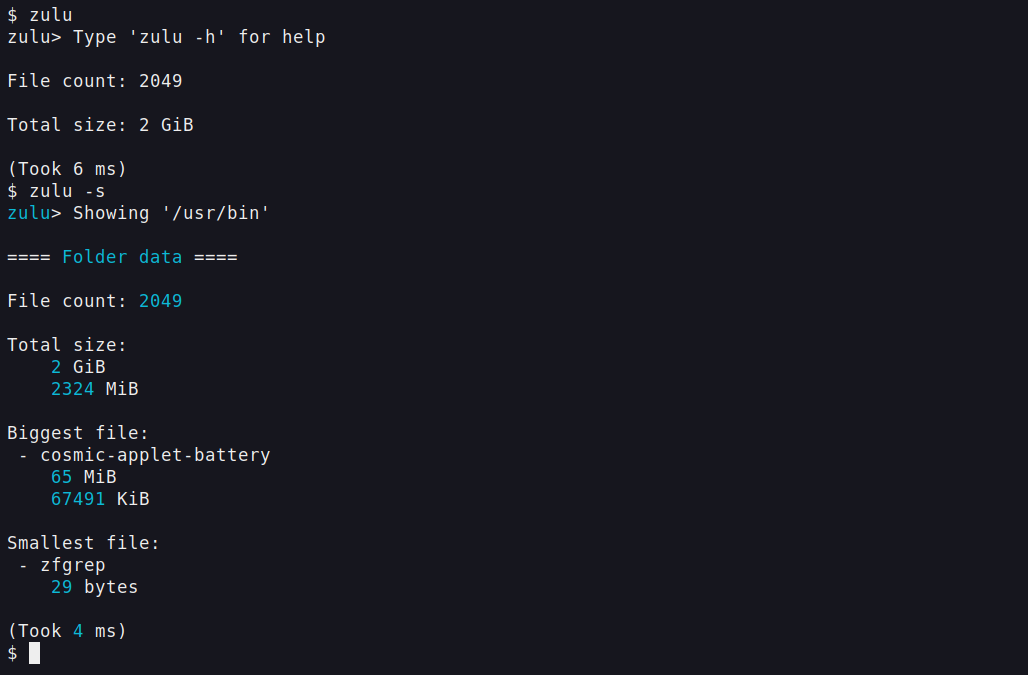
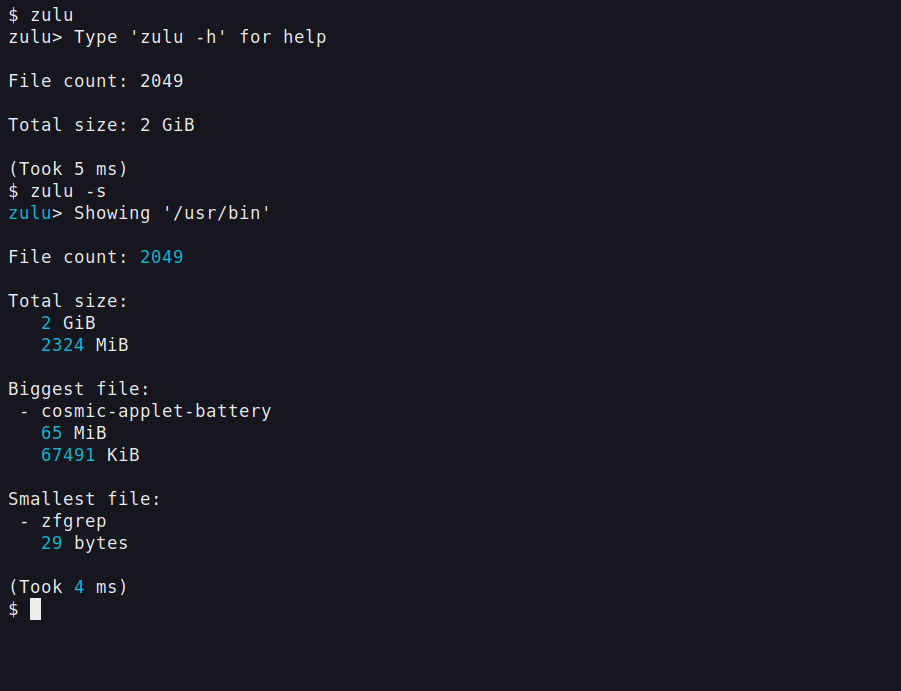
Updated docs and added new images

Changed region(s): [[0.0, 0.1556, 0.3108, 0.9956], [0.0, 0.0, 0.3729, 0.0622], [0.0, 0.0933, 0.2175, 0.1244]]

diff --git a/README.md b/README.md
@@ -1,10 +1,10 @@
 # Zulu CLI
 
-> Performant directory stats in readable format
+> Performant directory summaries in a readable format
 
-* **Requirements:** C compiler and an Unix system
+* **Requirements:** C compiler and a POSIX system, no other dependencies.
 
-* **Platforms:** Linux or macOS (I've only used it on Linux)
+* **Changelog:** [right here](./CHANGELOG.md)
 
 
 ## Appearance
@@ -13,16 +13,14 @@ That's the basic output and summary version in action:
 
 ![Nice CLI](docs/pics/basic_output.png)
 
-More images [here](./docs/pics)
-
 
 ## Features
 
-* Works in the current directory or a provided one
-* Lists only useful units together depending on sizes, Gib & MiB | MiB & KiB | Bytes
-* Can list the files counted, always lists the biggest & smallest file
-* Simple output mode that skips some logic, to display only total size & count, and only in the largest unit needed
-* Byte output mode that skips math entirely, only lists as it reads
+* Works in the current directory or a provided one.
+* Lists only useful units together, depending on sizes: Gib & MiB | MiB & KiB | Bytes.
+* Can list the files counted, always lists the biggest & smallest file.
+* Simple output mode that skips some logic, to display only total size & count, and only in the largest unit needed.
+* Byte output mode that skips math entirely, only lists as it reads. Will also output in a parser-friendly format if piped.
 
 Some output [examples](./docs/pics)
 
@@ -33,14 +31,14 @@ Some output [examples](./docs/pics)
 ## About
 
 I made this with efficiency in mind, and what's less efficient than having to use bash aliases or bloated tools to
-check how large a folders files are, and what's the biggest file in it?
+check how large some folders files are, and what's the biggest file?
 So Zulu was born, it takes less flags than du and ls take combined to show a similar summary,
-and if you really need the bytes, that's possible too.
+and it runs laps on TUI's if you don't need every detail.
 
-Anyway, if you need a TUI that shows you every files full metadata and many folders at once, Zulu is not it.
-But if you need to check source code size, build artifacts, /any/system/directory etc... Zulu is your < 1 ms friend (usually).
+So, if you need a TUI that shows you every files full metadata and many folders at once, Zulu is not it.
+But if you need to check source code size, build artifacts, /any/system/directory etc... Zulu is your ~1 ms friend (usually).
 
-Do note that you should either trust my provided binary (reverse engineer it to be safe) or compile it yourself, 
+Do note that you should either trust my provided binary (reverse engineer it to be safe) or compile it yourself.
 I naturally have the compile.sh script in root for gcc users. 
 Then make a bash alias to the binary or whatever you wish for easy access.
 

diff --git a/CHANGELOG.md b/CHANGELOG.md
@@ -15,4 +15,4 @@ Added a check for byte list (`-b`) mode that checks for the existance of a termi
 
 - **UI tweaks**
 
-Removed the header from standard `-s`/`-p` output, it just crowds the screen. But of course if the `--ls` flag is present then the list and data are still seperated and marked with headers. Also tweaked the whitespaces a bit to make the data easier to scan, in my eyes of course.
+Removed the header from standard `-s`/`-p` output, it just crowds the screen. But of course if the `--ls` flag is present then the list and data are still seperated and marked with headers. Also tweaked the whitespaces a bit to make the data easier to scan, in my eyes atleast.

diff --git a/docs/pics/README.md b/docs/pics/README.md
@@ -1,7 +1,13 @@
 ## More features visualised
 
-Summary output with the list flag:
-![Nice CLI](list_output.png)
+**Summary output with the list flag:**
 
-Byte output from a file path:
-![Nice CLI](byte_list.png)
+![List](list_output.png)
+
+**Byte output from a file path:**
+
+![Bytes](byte_output.png)
+
+**Piped output from a file:**
+
+![Piped](pipe_output.png)
